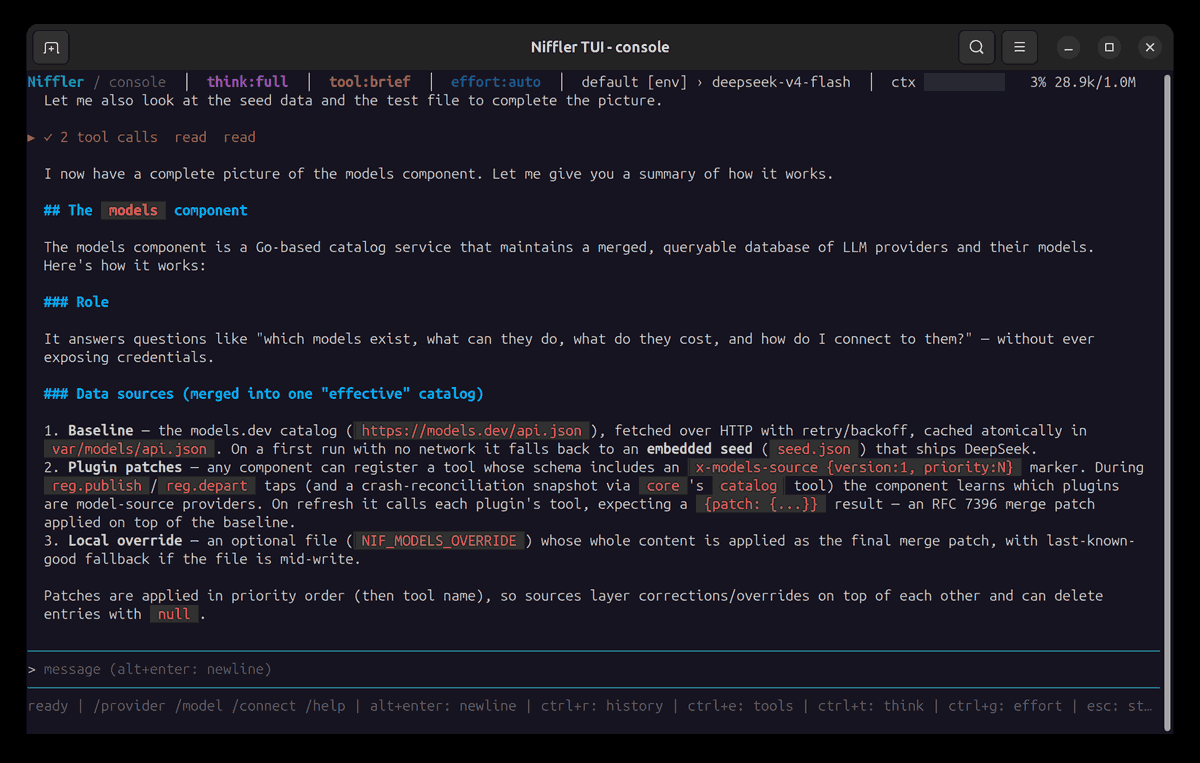
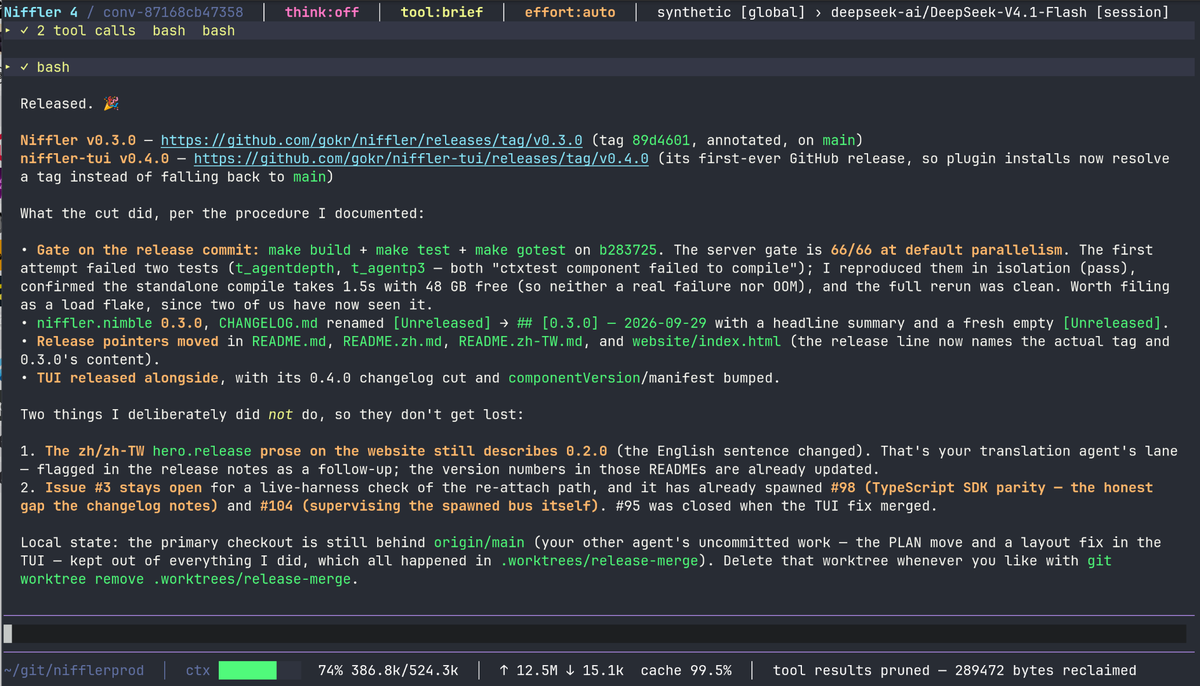
website: a newer niffler-tui screenshot
The tui shot predated a lot of the client — and this release. Replaced with
today's capture, downscaled to the 1200px width the other shot uses
(2068x1182 → 1200x686, LANCZOS, RGB, PIL-optimized), and the markup's
width/height now match that intrinsic size: `.shot-frame img` is
width:100%/height:auto, so the aspect ratio stays right and the layout does not
shift while the image loads. The lightbox keeps its link (same file, so the
click-through shows the new capture too).

Sanity-checked before committing: the new grab is dark (56-66% near-black),
low-saturation and edge-dense — a terminal capture like the one it replaces,
whereas the desktop shot beside it is a light UI (8% dark). A 256-colour
palette would save only ~34 KB at a 0.39/255 mean channel difference, so it
ships as lossless RGB. Size grows 221 KB → 467 KB: no PNG optimizers
(optipng/pngquant/zopfli) are installed on this box, so a squeeze pass is
worth doing before the announcement if bandwidth matters.

diff --git a/website/index.html b/website/index.html
@@ -74,7 +74,7 @@
     </figure>
     <figure class="shot">
       <a class="shot-frame" href="img/niffler-tui.png" target="_blank" rel="noopener" data-lightbox="niffler-tui — the terminal chat client">
-        <img src="img/niffler-tui.png" alt="niffler-tui — the terminal chat client" loading="lazy" width="1200" height="763">
+        <img src="img/niffler-tui.png" alt="niffler-tui — the terminal chat client" loading="lazy" width="1200" height="686">
       </a>
       <figcaption><span class="shot-name" data-i18n="screens.tui.name">niffler-tui</span> — <span data-i18n="screens.tui.desc">the terminal chat client (a plugin — the installed niffler-tui wrapper boots the harness on demand and re-runs the client after /restart)</span></figcaption>
     </figure>
